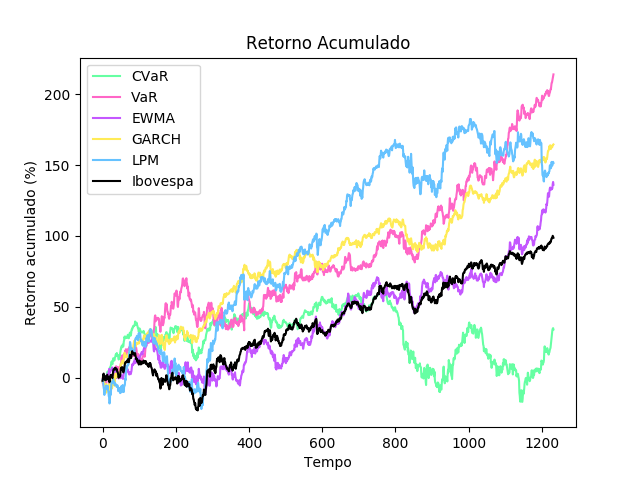
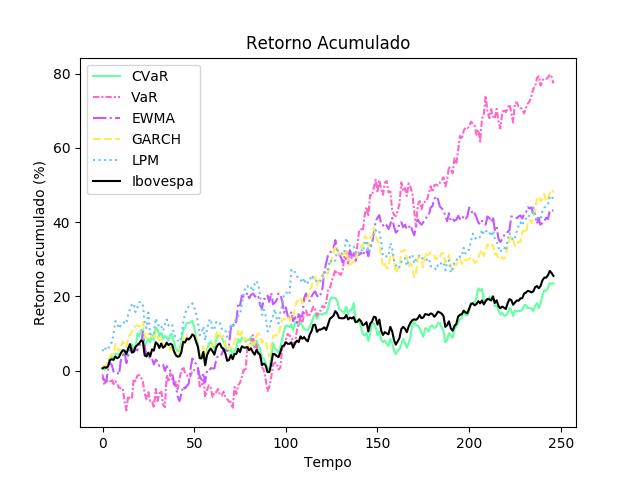
in-sample and out-sample (2015-2018 e 2019)

diff --git a/nsga2.py b/nsga2.py
@@ -10,6 +10,7 @@ import numpy as np
 import random
 import itertools
 import timeit
+import copy
 
 class Ativo:
     idAtivo = itertools.count()
@@ -142,21 +143,30 @@ class Carteira:
         for i in self.ativos:
             cont += 1
         return cont
+
+
                 
 def inicializa():    
     
-    global listaAtivos
-    global lista_ibovespa
+    global listaAtivos_2015_2018
+    global lista_ibovespa_2015_2018
+    global listaAtivos_2019
+    global lista_ibovespa_2019
     nomeAtivos = []
     primeira = True
+    flag2019 = False
 
     with open("ativos.csv", "r+") as f:
         linhas = f.readlines()
-        listaCotacoes = []
+        listaCotacoes_2015_2018 = []
+        listaCotacoes_2019 = []
         
         #PERCORRE LINHAS
         for linha in linhas:
             valores = linha.split(",")
+            if(valores[0] == '01/01/2019'):
+                flag2019 = True
+                primeira = True
             j=-1
             #PERCORRE CADA ATIVO
             for valor in valores:
@@ -166,50 +176,82 @@ def inicializa():
                         nomeAtivos.append(nome)
                     else:
                         nomeAtivos.append(valor)
-            
+                elif flag2019:
+                    if primeira:
+                        for i in range(len(nomeAtivos)):
+                            listaCotacoes_2019.append([])
+                        primeira = False
+                    elif(valor != valores[0] )and valor != '-' and valor != '-\n':
+                        listaCotacoes_2019[j].append(float(valor))
                 else:
                     if primeira and valor != 'CODIGOS':
                         for i in range(len(nomeAtivos)):
-                            listaCotacoes.append([])
+                            listaCotacoes_2015_2018.append([])
                         primeira = False
-                    if(valor != valores[0] )and valor != '-' and valor != '-\n':
-                        listaCotacoes[j].append(float(valor))
-                    j+=1
+                    elif(valor != valores[0] )and valor != '-' and valor != '-\n':
+                        listaCotacoes_2015_2018[j].append(float(valor))
+                j+=1
+                
+
         for i in range(len(nomeAtivos)):
             codigoAtivo = nomeAtivos[i]
             if(codigoAtivo == "IBOV"):
-                lista_ibovespa = copy.copy(listaCotacoes[i])
+                lista_ibovespa_2015_2018 = copy.copy(listaCotacoes_2015_2018[i])
+                lista_ibovespa_2019 = copy.copy(listaCotacoes_2019[i])
             else:
-                listaAtivos.append(Ativo(codigoAtivo,listaCotacoes[i]))
+                listaAtivos_2015_2018.append(Ativo(codigoAtivo,listaCotacoes_2015_2018[i]))
+                listaAtivos_2019.append(Ativo(codigoAtivo,listaCotacoes_2019[i]))
     
-        
+    
+    # lista_ativos_semestral = []
+    # # index = 0
+    # valor = 123
+    # cont_aux = 0
+    # i=0
+    # for i in range(8):
+    #     lista_ativos_semestral.append([])
+    #     for j in range(len(listaAtivos_2015_2018[0].getCotacoes())):
+    #         lista_ativos_semestral[i] = copy.copy(listaAtivos_2015_2018[][i*123:((i+1)*123)-1])
+    #         cont_aux = ((i+1)*123)
+    #     # index+=1
+    
+    # i-=1
+    # for j in range(cont_aux, len(listaAtivos_2015_2018)):
+    #     lista_ativos_semestral[i].append(listaAtivos_2015_2018[j])
+
+    # print("EAI")
+    # print(len(lista_ativos_semestral))
+    # for i in lista_ativos_semestral:
+    #     for j in i:
+    #         print(j)
+
 def populacao_inicial():
     global populacao
     for j in range(TAM_POP):
         carteira = []
         for i in range(CARDINALIDADE):
-            ativo = (listaAtivos[ativo_aux(carteira)], pesoProporcional(carteira,i)) ##### satisfazer a soma dos pesos = 1
+            ativo = (listaAtivos_2015_2018[ativo_aux(carteira)], pesoProporcional(carteira,i)) ##### satisfazer a soma dos pesos = 1
             carteira.append(ativo)
         populacao.append(Carteira(carteira))
 
 
 def grafico_tempo(carteira_cvar, carteira_var, carteira_ewma, carteira_garch, carteira_lpm):
-    global lista_ibovespa
+    global lista_ibovespa_2019
 
-    cotacoes_cvar = calcula_cotacoes_carteira(carteira_cvar)
-    cotacoes_var = calcula_cotacoes_carteira(carteira_var)
-    cotacoes_ewma = calcula_cotacoes_carteira(carteira_ewma)
-    cotacoes_garch = calcula_cotacoes_carteira(carteira_garch)
-    cotacoes_lpm = calcula_cotacoes_carteira(carteira_lpm)
+    cotacoes_cvar = calcula_cotacoes_carteira_2019(carteira_cvar)
+    cotacoes_var = calcula_cotacoes_carteira_2019(carteira_var)
+    cotacoes_ewma = calcula_cotacoes_carteira_2019(carteira_ewma)
+    cotacoes_garch = calcula_cotacoes_carteira_2019(carteira_garch)
+    cotacoes_lpm = calcula_cotacoes_carteira_2019(carteira_lpm)
 
 
-    plt.plot(range(len(retorno_acumulado(cotacoes_cvar))),retorno_acumulado(cotacoes_cvar),color = '#66ffa3', label = 'CVaR')
-    plt.plot(range(len(retorno_acumulado(cotacoes_var))),retorno_acumulado(cotacoes_var),color = '#ff66c7', label = 'VaR')
-    plt.plot(range(len(retorno_acumulado(cotacoes_ewma))),retorno_acumulado(cotacoes_ewma),color = '#c457ff', label = 'EWMA')
-    plt.plot(range(len(retorno_acumulado(cotacoes_garch))),retorno_acumulado(cotacoes_garch), color = '#ffeb57', label = 'GARCH')
-    plt.plot(range(len(retorno_acumulado(cotacoes_lpm))),retorno_acumulado(cotacoes_lpm),color = '#66c2ff', label = 'LPM')
+    plt.plot(range(len(retorno_acumulado(cotacoes_cvar))),retorno_acumulado(cotacoes_cvar),linestyle = 'solid', color = '#66ffa3', label = 'CVaR')
+    plt.plot(range(len(retorno_acumulado(cotacoes_var))),retorno_acumulado(cotacoes_var), linestyle = (0, (3, 1, 1, 1)), color = '#ff66c7', label = 'VaR')
+    plt.plot(range(len(retorno_acumulado(cotacoes_ewma))),retorno_acumulado(cotacoes_ewma), linestyle = 'dashdot',color = '#c457ff', label = 'EWMA')
+    plt.plot(range(len(retorno_acumulado(cotacoes_garch))),retorno_acumulado(cotacoes_garch), linestyle = 'dashed', color = '#ffeb57', label = 'GARCH')
+    plt.plot(range(len(retorno_acumulado(cotacoes_lpm))),retorno_acumulado(cotacoes_lpm), linestyle = 'dotted',color = '#66c2ff', label = 'LPM')
     
-    plt.plot(range(len(retorno_acumulado(lista_ibovespa))), retorno_acumulado(lista_ibovespa), color = 'black', label = 'Ibovespa')
+    plt.plot(range(len(retorno_acumulado(lista_ibovespa_2019))), retorno_acumulado(lista_ibovespa_2019), color = 'black', label = 'Ibovespa')
     plt.legend()
     plt.xlabel('Tempo')
     plt.ylabel('Retorno acumulado (%)')
@@ -338,7 +380,7 @@ def main():
     solucao_final_cvar.printCarteira()
     
     print("VAR")
-    solucao_final_cvar.printCarteira()
+    solucao_final_var.printCarteira()
 
     print("EWMA")
     solucao_final_ewma.printCarteira()
@@ -349,6 +391,7 @@ def main():
     print("LPM")
     solucao_final_lpm.printCarteira()
 
+ 
 
     grafico_tempo(solucao_final_cvar, solucao_final_var, solucao_final_ewma, solucao_final_garch, solucao_final_lpm)
     grafico_risco_retorno(x1,y1,"paretoInicial")

diff --git a/aux.py b/aux.py
@@ -83,8 +83,9 @@ def melhor_carteira(pop):
     return carteira
 
 
-def calcula_cotacoes_carteira(carteira):
+def calcula_cotacoes_carteira_2015_2018(carteira):
     numero_cotacoes = len(carteira.getAtivoPeloIndex(0)[0].getCotacoes())
+    print(numero_cotacoes)
     matriz = []
     for i in range(carteira.cardinalidade()):
         matriz.append([0]*numero_cotacoes)
@@ -100,13 +101,54 @@ def calcula_cotacoes_carteira(carteira):
             
     return y
 
+def encontraIndexAtivo(codigo_ativo):
+    global listaAtivos_2019
+    index = 0
+    for i in listaAtivos_2019:
+        if(i.getCodigo() == codigo_ativo):
+            return index
+        index += 1
+        
+
+def calcula_cotacoes_carteira_2019(carteira):
+    global listaAtivos_2019
+    numero_cotacoes = len(listaAtivos_2019[0].getCotacoes())
+    # print(numero_cotacoes)
+    matriz = []
+    for i in range(carteira.cardinalidade()):
+        matriz.append([0]*numero_cotacoes)
+
+    for index_ativo in range(carteira.cardinalidade()):
+        ativo = carteira.getAtivoPeloIndex(index_ativo)
+        for cotacao in range(numero_cotacoes):
+            matriz[index_ativo][cotacao] +=  listaAtivos_2019[encontraIndexAtivo(ativo[0].getCodigo())].getCotacoes()[cotacao] * ativo[1]
+
+    y = [0]*numero_cotacoes
+    for i in range(numero_cotacoes):
+        for ativo in range(len(matriz)):
+            y[i] += matriz[ativo][i]
+            
+    return y
+
 
 def grafico_risco_retorno(x,y,nome):
     
-    plt.scatter(x, y)
+    plt.scatter(x, y, marker = '*', color = '#ff66c7')
     plt.axis([min(x), max(x), min(y), max(y)])
     plt.xlabel('Risco')
     plt.ylabel('Retorno')
     plt.title(nome)
     plt.savefig("graficos/"+nome + '.png')
     plt.show()
+
+def escolhe_ativo(carteira):
+    verifica = True# 
+    while(verifica):
+        novoAtivo1 = random.choice(listaAtivos_2015_2018) #gera um ativo novoAtivo1 para substituir o ativo atual
+        for i in carteira.getAtivos():
+            if i[0].getCodigo() == novoAtivo1.getCodigo():
+                verifica = False
+        if verifica:
+            return novoAtivo1
+        else:
+            verifica = True

diff --git a/operadores.py b/operadores.py
@@ -48,11 +48,12 @@ def mutacao(populacao):
                     index2 = carteira.getIndexPeloAtivo(novoAtivo2)
                     carteira.setAtivoPeloIndex(index2, (novoAtivo2[0], novoAtivo2[1]+r))
                 else:
-                    novoAtivo1 = random.choice(listaAtivos) #gera um ativo novoAtivo1 para substituir o ativo atual
+                    novoAtivo1 = escolhe_ativo(carteira)
                     carteira.setAtivoPeloIndex(index1, (novoAtivo1, ativo[1]))
-
             index1+=1
+            
     return populacao
+
 
 def selecao(pop):
     popu = pop.copy()
@@ -76,11 +77,8 @@ def selecao(pop):
             p_b = copy.copy(ind_c)
         else:
             p_b = copy.copy(ind_d)
-            
-        # for k in popu:
-        #     if k.getId() == p_b.getId():
-        #         popu.remove(k)
         pares.append((p_a,p_b))
+
     return pares   
 
 
@@ -168,4 +166,5 @@ def filtragem(populacao_entrada, primeira_iteracao):
     for i in pop_linha:
         for j in i:
             pop.append(j)
+
     return pop

diff --git a/globais.py b/globais.py
@@ -1,13 +1,15 @@
-TAM_POP = 100
+TAM_POP = 50
 CARDINALIDADE = 9
-ITERACOES = 100
+ITERACOES = 50
 PROBABILIDADE_MUTACAO = 0.1
-EXECUCOES = 5
+EXECUCOES = 1
 QUANTIDADE_ATIVOS = 62
 QUANTIDADE_METRICAS = 5
-listaAtivos = []
+listaAtivos_2015_2018 = []
+lista_ibovespa_2015_2018 = []
+listaAtivos_2019 = []
+lista_ibovespa_2019 = []
 populacao = []
-lista_ibovespa = []
 
 ### EWMA
 λ = 0.94

diff --git a/metricas.py b/metricas.py
@@ -86,7 +86,7 @@ def cvar(ativo):
 def metrica_risco(valor):
 
     #calcula o risco e o retorno de cada ativo e atualiza os valores de listaAtivos
-    for i in listaAtivos:
+    for i in listaAtivos_2015_2018:
         if(valor == 0):
             ris = cvar(i.getCotacoes())[1] #[0] = CVaR 95% | [1] = CVaR 99% | [2] = CVaR 99.9%
         elif(valor == 1):
